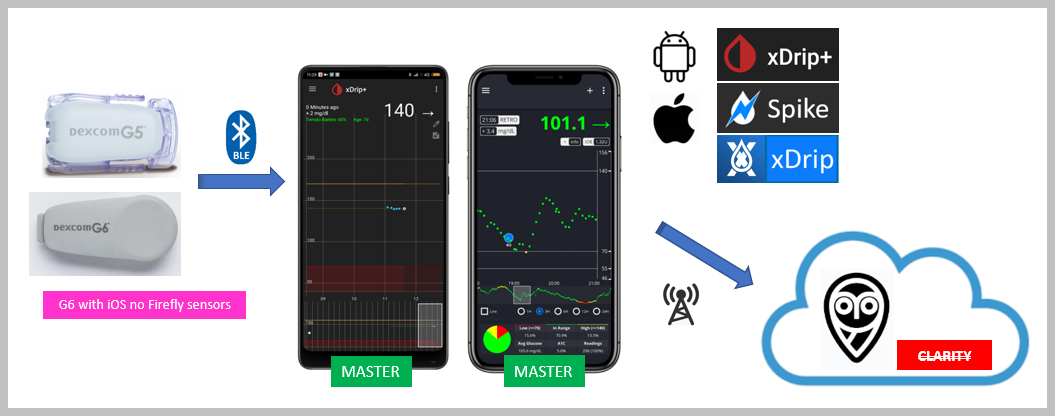
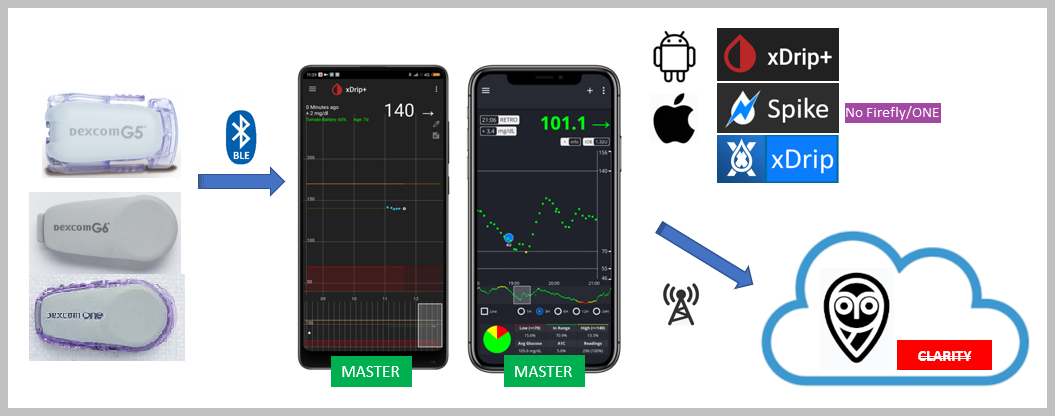
ONE
And some Libre modifications

Changed region(s): [[0.0303, 0.6562, 0.2427, 0.875], [0.7886, 0.25, 0.91, 0.3125]]

diff --git a/docs/uploader/uploaders.md b/docs/uploader/uploaders.md
@@ -15,11 +15,12 @@ If you're developing an uploader, you'll find the API information in your Nights
 
 ## Dexcom
 
-#### Dexcom G5/G6
+#### Dexcom G5/G6/ONE
 
 <img src="..\img\Upload02.png" />
 
-If you are using the Dexcom G5 and G6 sensors connected to the Dexcom app on your phone, it will upload directly to the Dexcom servers (also still known as "Dexcom Share") and you won't need to use any extra uploader or master device. 
+If you are using the Dexcom G5 and G6 sensors connected to the Dexcom app on your phone, it will upload directly to the Dexcom servers (also still known as "Dexcom Share") and you won't need to use any extra uploader or master device.  
+Dexcom Share is not available with Dexcom ONE.
 
 For this to work, Nightscout must be configured to use the `bridge` plug-in and will then automatically pull the CGM information directly from the Dexcom servers in real-time.
 
@@ -30,15 +31,18 @@ For this to work, Nightscout must be configured to use the `bridge` plug-in and 
 
 If you don't want to use the official Dexcom apps, then you can use **open-source software** apps for your Dexcom sensor to connect, display, alarm and also upload to Nightscout:
 
-**Android**: xDrip+ for G4, G5 and G6. <!-- xDrip+ for G4 (1)(2)(3), G5 and G6. -->
+**Android**: xDrip+ for G4, G5, G6 and ONE. <!-- xDrip+ for G4 (1)(2)(3), G5 and G6. -->
 
-**iOS**: Spike or xDrip4iOS for G4, G5 and older G6 transmitters (**not Firefly**) <!-- Spike or xDrip4iOS for G4 (1)(3) -->
+**iOS**:   
+	Spike for G4, G5 and older G6 transmitters (**not Firefly**) <!-- Spike or xDrip4iOS for G4 (1)(3) -->  
+	xDrip4iOS for G4, G5, G6 and ONE transmitters
 
 <img src="..\img\Upload03.png" />
 
 !!! info "Dexcom "Firefly" Transmitters"
-    Any transmitter made before Dexcom switched to the "firefly" range of G6 transmitters is compatible with **Spike** or **xDrip4iOS**. Although there are *slight* physical differences, the easiest way to check is to look at the Transmitter ID. If it starts with **80xxxx** or **81yxxx** (where **y** is a number) then it is a pre-Firefly transmitter and is compatible. 
+    Any transmitter made before Dexcom switched to the "firefly" range of G6 transmitters is compatible with **Spike**. Although there are *slight* physical differences, the easiest way to check is to look at the Transmitter ID. If it starts with **80xxxx** or **81yxxx** (where **y** is a number) then it is a pre-Firefly transmitter and is compatible. 
     
+
     Most of the useable transmitters that fall into this category at the present time (early 2021) are generally rebatteried or rechargeable/modified 80xxxx or 81xxxx transmitters.
 
 
@@ -98,11 +102,11 @@ Non Bluetooth-enabled Freestyle Libre sensors will need an additional transmitte
 
 Most of the transmitters have their own proprietary apps. Nearly all of these support the uploading of data to Nightscout (LinkBluCon, Tomato, Diabox, eDroplet, ...). Again, check the transmitter manufacturer's website and the relevant Facebook support groups for information.
 
-**Open-source apps** such as **xDrip+**, **Spike** and **xDrip4iOS** also support most of the above transmitter devices.
+**Open-source apps** such as **xDrip+**, **Spike** and **xDrip4iOS** also support some of the above transmitter devices.
 
-You can connect to the Libre 2 sensor (**EU only**) without an additional transmitter using [xDrip+](https://www.minimallooper.com/post/how-to-setup-freestyle-libre-2-and-oop2-to-use-a-native-bluetooth-connection-in-xdrip), Diabox or [xDrip4iOS](https://xdrip4ios.readthedocs.io/en/latest/connect/cgm/#libre).
+You can connect to the Libre 2 sensor (**EU only**) without an additional transmitter using [xDrip+](https://www.minimallooper.com/post/how-to-setup-freestyle-libre-2-and-oop2-to-use-a-native-bluetooth-connection-in-xdrip), and [xDrip4iOS](https://xdrip4ios.readthedocs.io/en/latest/connect/cgm/#libre). Other Libre 2 sensors can be used directly with Juggluco and Diabox.
 
-You can upload automatically from LibreView servers deploying [this](https://github.com/timoschlueter/nightscout-librelink-up) project in Heroku.
+For Libre 3, you can upload automatically from LibreView servers deploying [this](https://github.com/timoschlueter/nightscout-librelink-up) project in Heroku, or use xDrip+ to perform this operation.
 
 </br>
 </br>
